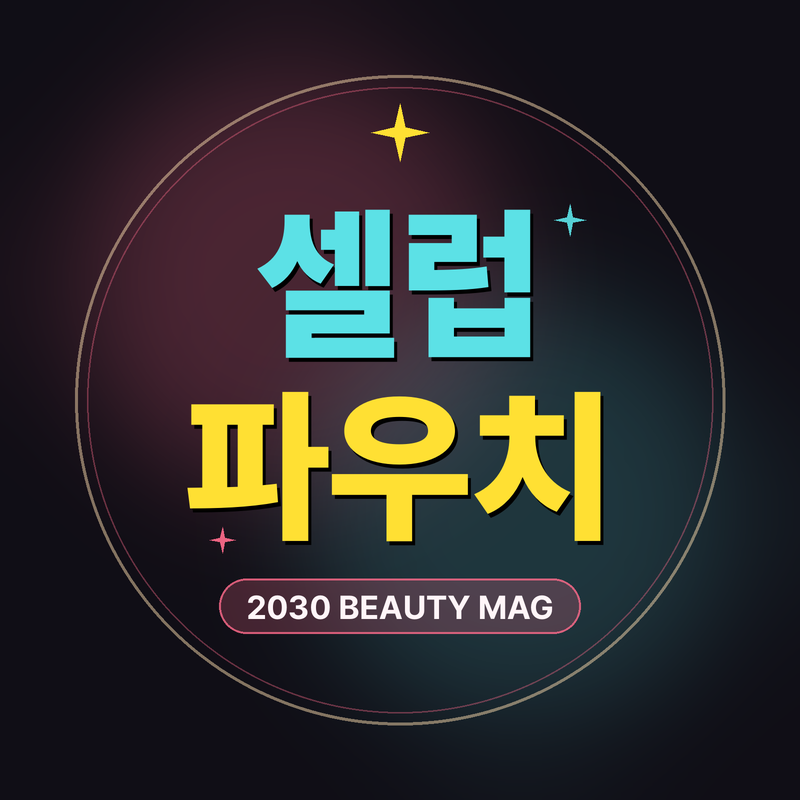
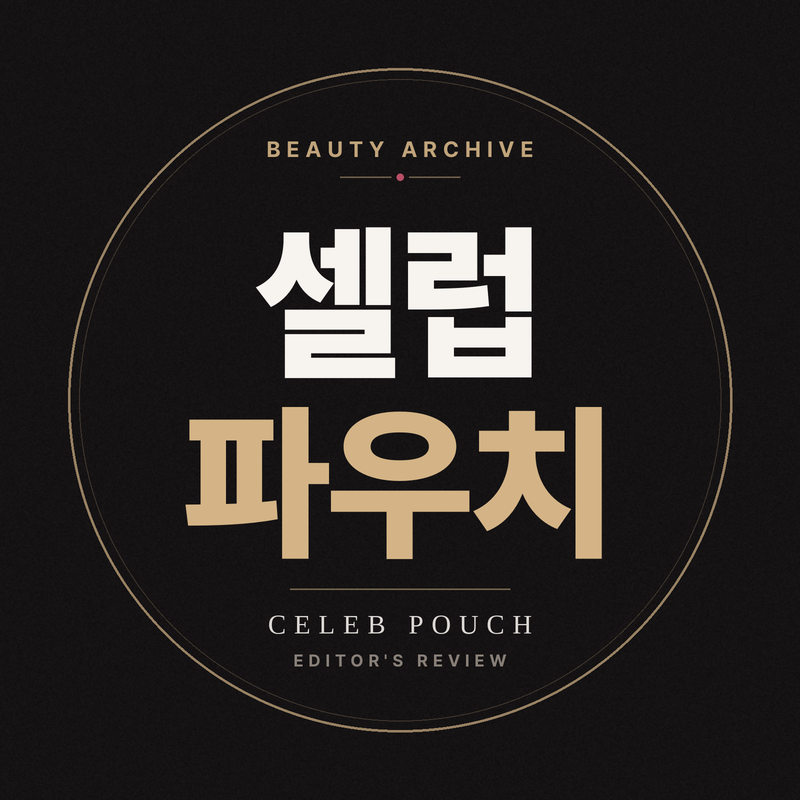
Update CelebPouch beauty links

diff --git a/index.html b/index.html
@@ -9,26 +9,23 @@
   <link rel="stylesheet" href="https://cdn.jsdelivr.net/gh/orioncactus/pretendard/dist/web/static/pretendard.css" />
   <style>
     :root {
-      --bg: #100e16;
-      --surface: #1b1824;
-      --surface-hover: #242031;
-      --border: rgba(255, 255, 255, 0.09);
-      --cyan: #5ce1e6;
-      --yellow: #ffe033;
-      --coral: #ff6b8b;
-      --text: #f7f6fb;
-      --muted: #a8a4b8;
+      --bg: #141213;
+      --surface: #1d1a1c;
+      --surface-hover: #272325;
+      --border: rgba(212, 180, 134, 0.16);
+      --gold: #d4b486;
+      --gold-soft: #b69a76;
+      --rose: #c2556e;
+      --text: #f7f4ef;
+      --muted: #a69d94;
     }
     * { box-sizing: border-box; margin: 0; padding: 0; }
     body {
       font-family: "Pretendard", -apple-system, BlinkMacSystemFont, sans-serif;
-      background:
-        radial-gradient(600px circle at 15% 5%, rgba(255, 107, 139, 0.16), transparent 60%),
-        radial-gradient(500px circle at 85% 15%, rgba(92, 225, 230, 0.14), transparent 60%),
-        var(--bg);
+      background: var(--bg);
       color: var(--text);
       min-height: 100vh;
-      padding: 28px 16px 56px;
+      padding: 30px 16px 56px;
     }
     .wrap {
       max-width: 480px;
@@ -36,15 +33,15 @@
     }
     .header {
       text-align: center;
-      margin-bottom: 18px;
+      margin-bottom: 20px;
     }
     .avatar {
-      width: 92px;
-      height: 92px;
+      width: 94px;
+      height: 94px;
       border-radius: 50%;
       object-fit: cover;
-      border: 2.5px solid rgba(255, 224, 51, 0.7);
-      box-shadow: 0 10px 28px rgba(0, 0, 0, 0.45);
+      border: 1.5px solid rgba(212, 180, 134, 0.65);
+      box-shadow: 0 10px 28px rgba(0, 0, 0, 0.5);
       margin-bottom: 12px;
     }
     .brand-title {
@@ -53,12 +50,12 @@
       letter-spacing: -0.02em;
       margin-bottom: 6px;
     }
-    .brand-title .c1 { color: var(--cyan); }
-    .brand-title .c2 { color: var(--yellow); }
+    .brand-title .c1 { color: var(--text); }
+    .brand-title .c2 { color: var(--gold); }
     .bio {
       font-size: 13.5px;
       color: var(--muted);
-      line-height: 1.5;
+      line-height: 1.55;
       margin-bottom: 14px;
     }
     .socials {
@@ -71,24 +68,24 @@
       display: inline-flex;
       align-items: center;
       gap: 5px;
-      padding: 7px 14px;
+      padding: 7px 15px;
       border-radius: 999px;
       font-size: 12.5px;
       font-weight: 700;
       text-decoration: none;
       color: var(--text);
-      background: rgba(255, 255, 255, 0.07);
+      background: rgba(255, 255, 255, 0.05);
       border: 1px solid var(--border);
       transition: background 0.15s ease, transform 0.15s ease;
     }
-    .social-btn:hover { background: rgba(255, 255, 255, 0.13); transform: translateY(-1px); }
+    .social-btn:hover { background: rgba(212, 180, 134, 0.14); transform: translateY(-1px); }
     .ftc-box {
-      background: rgba(255, 255, 255, 0.04);
+      background: rgba(255, 255, 255, 0.03);
       border: 1px solid var(--border);
       border-radius: 12px;
       padding: 10px 12px;
       font-size: 11.5px;
-      color: #b7b3c6;
+      color: #b4aba2;
       line-height: 1.45;
       margin-bottom: 16px;
       text-align: center;
@@ -103,14 +100,14 @@
       width: 100%;
       padding: 13px 16px;
       border-radius: 14px;
-      border: 1px solid rgba(255, 255, 255, 0.15);
-      background: rgba(24, 21, 34, 0.94);
+      border: 1px solid rgba(212, 180, 134, 0.28);
+      background: rgba(26, 23, 25, 0.96);
       backdrop-filter: blur(10px);
       color: var(--text);
       font-size: 14.5px;
       outline: none;
     }
-    .search-input:focus { border-color: var(--cyan); }
+    .search-input:focus { border-color: var(--gold); }
     .cats {
       display: flex;
       gap: 7px;
@@ -122,7 +119,7 @@
     .cats::-webkit-scrollbar { display: none; }
     .cat-pill {
       flex: 0 0 auto;
-      padding: 7px 13px;
+      padding: 7px 14px;
       border-radius: 999px;
       border: 1px solid var(--border);
       background: var(--surface);
@@ -132,9 +129,9 @@
       cursor: pointer;
     }
     .cat-pill.active {
-      background: var(--coral);
-      border-color: var(--coral);
-      color: #fff;
+      background: var(--gold);
+      border-color: var(--gold);
+      color: #141213;
     }
     .list {
       display: flex;
@@ -146,7 +143,7 @@
       align-items: center;
       gap: 13px;
       padding: 11px;
-      border-radius: 18px;
+      border-radius: 16px;
       background: var(--surface);
       border: 1px solid var(--border);
       text-decoration: none;
@@ -155,7 +152,7 @@
     }
     .item-card:hover {
       background: var(--surface-hover);
-      border-color: rgba(255, 107, 139, 0.45);
+      border-color: rgba(212, 180, 134, 0.48);
       transform: translateY(-1px);
     }
     .thumb-wrap {
@@ -163,9 +160,9 @@
       width: 84px;
       height: 84px;
       flex: 0 0 84px;
-      border-radius: 13px;
+      border-radius: 12px;
       overflow: hidden;
-      background: #fff;
+      background: #f5f0e9;
     }
     .thumb-wrap img {
       width: 100%;
@@ -179,21 +176,21 @@
       display: flex;
       align-items: center;
       justify-content: center;
-      background: #231f30;
-      color: var(--yellow);
+      background: #242022;
+      color: var(--gold);
       font-weight: 800;
     }
     .num-badge {
       position: absolute;
       top: 5px;
       left: 5px;
-      background: rgba(16, 14, 22, 0.9);
-      color: var(--yellow);
-      border: 1.5px solid var(--yellow);
-      border-radius: 8px;
+      background: rgba(20, 18, 19, 0.92);
+      color: var(--gold);
+      border: 1px solid rgba(212, 180, 134, 0.85);
+      border-radius: 7px;
       padding: 1px 6px;
       font-size: 11px;
-      font-weight: 900;
+      font-weight: 800;
     }
     .item-info {
       flex: 1;
@@ -207,9 +204,9 @@
     }
     .celeb-chip {
       font-size: 11px;
-      font-weight: 800;
-      color: var(--cyan);
-      background: rgba(92, 225, 230, 0.13);
+      font-weight: 700;
+      color: var(--gold);
+      background: rgba(212, 180, 134, 0.14);
       padding: 2px 7px;
       border-radius: 6px;
     }
@@ -232,13 +229,13 @@
     }
     .price-chip {
       font-size: 12px;
-      font-weight: 800;
-      color: var(--yellow);
+      font-weight: 700;
+      color: var(--gold);
     }
     .cta-mini {
       font-size: 12px;
       font-weight: 700;
-      color: var(--coral);
+      color: var(--rose);
     }
     .empty {
       display: none;
@@ -251,7 +248,7 @@
       margin-top: 32px;
       text-align: center;
       font-size: 11.5px;
-      color: #777389;
+      color: #7d756e;
       line-height: 1.6;
     }
   </style>
